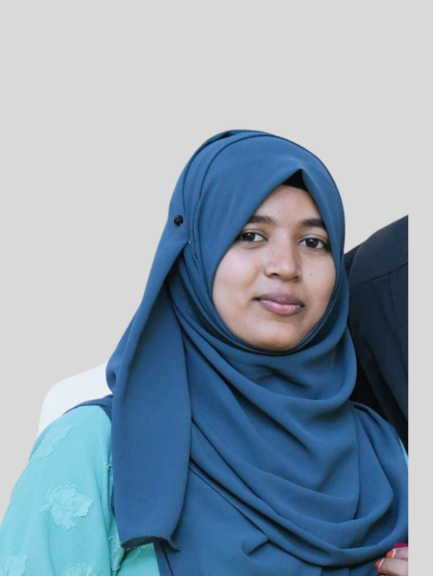
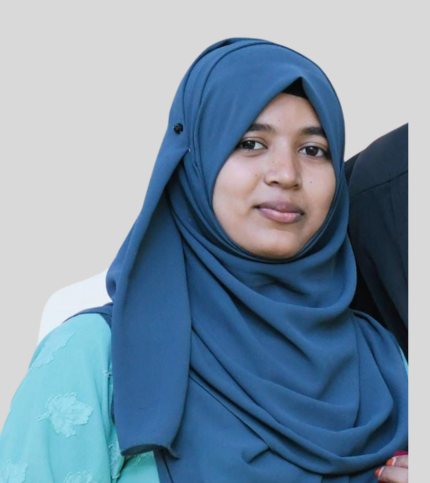
profile updated all

diff --git a/index.html b/index.html
@@ -56,24 +56,7 @@
           <li><a class="nav-link scrollto" href="#services">Services</a></li>
           <li><a class="nav-link scrollto " href="#portfolio">Portfolio</a></li>
           <li><a class="nav-link scrollto" href="#team">Team</a></li>
-          <li><a class="nav-link scrollto" href="#pricing">Pricing</a></li>
-          <!-- <li class="dropdown"><a href="#"><span>Drop Down</span> <i class="bi bi-chevron-down"></i></a>
-            <ul>
-              <li><a href="#">Drop Down 1</a></li>
-              <li class="dropdown"><a href="#"><span>Deep Drop Down</span> <i class="bi bi-chevron-right"></i></a>
-                <ul>
-                  <li><a href="#">Deep Drop Down 1</a></li>
-                  <li><a href="#">Deep Drop Down 2</a></li>
-                  <li><a href="#">Deep Drop Down 3</a></li>
-                  <li><a href="#">Deep Drop Down 4</a></li>
-                  <li><a href="#">Deep Drop Down 5</a></li>
-                </ul>
-              </li>
-              <li><a href="#">Drop Down 2</a></li>
-              <li><a href="#">Drop Down 3</a></li>
-              <li><a href="#">Drop Down 4</a></li>
-            </ul>
-          </li> -->
+          
           <li><a class="nav-link scrollto" href="#contact">Contact</a></li>
           <li><a class="getstarted scrollto" href="#about">Get Started</a></li>
         </ul>
@@ -159,7 +142,7 @@
           </div>
           <div class="col-lg-6 pt-4 pt-lg-0" data-aos="fade-up" data-aos-delay="300">
             <p>
-              In our system, we focus only on the user’s posts so we can get a proper idea about the user. We include detect the indirect word also so here the user 99% will get the proper items in their advertisement. 
+              In our system, we focus only on the user's posts so we can get a proper idea about the user. We include detect the indirect word also so here the user 99% will get the proper items in their advertisement. 
 
             </p>
             <a href="#" class="btn-learn-more">Learn More</a>
@@ -680,7 +663,7 @@
           <div class="col-lg-3 col-md-6 d-flex align-items-stretch">
             <div class="member" data-aos="fade-up" data-aos-delay="200">
               <div class="member-img">
-                <img src="assets/img/team/team-2.jpg" class="img-fluid" alt="">
+                <img src="assets/img/team/res.png" class="img-fluid" alt="">
                 <div class="social">
                   <a href=""><i class="bi bi-twitter"></i></a>
                   <a href=""><i class="bi bi-facebook"></i></a>
